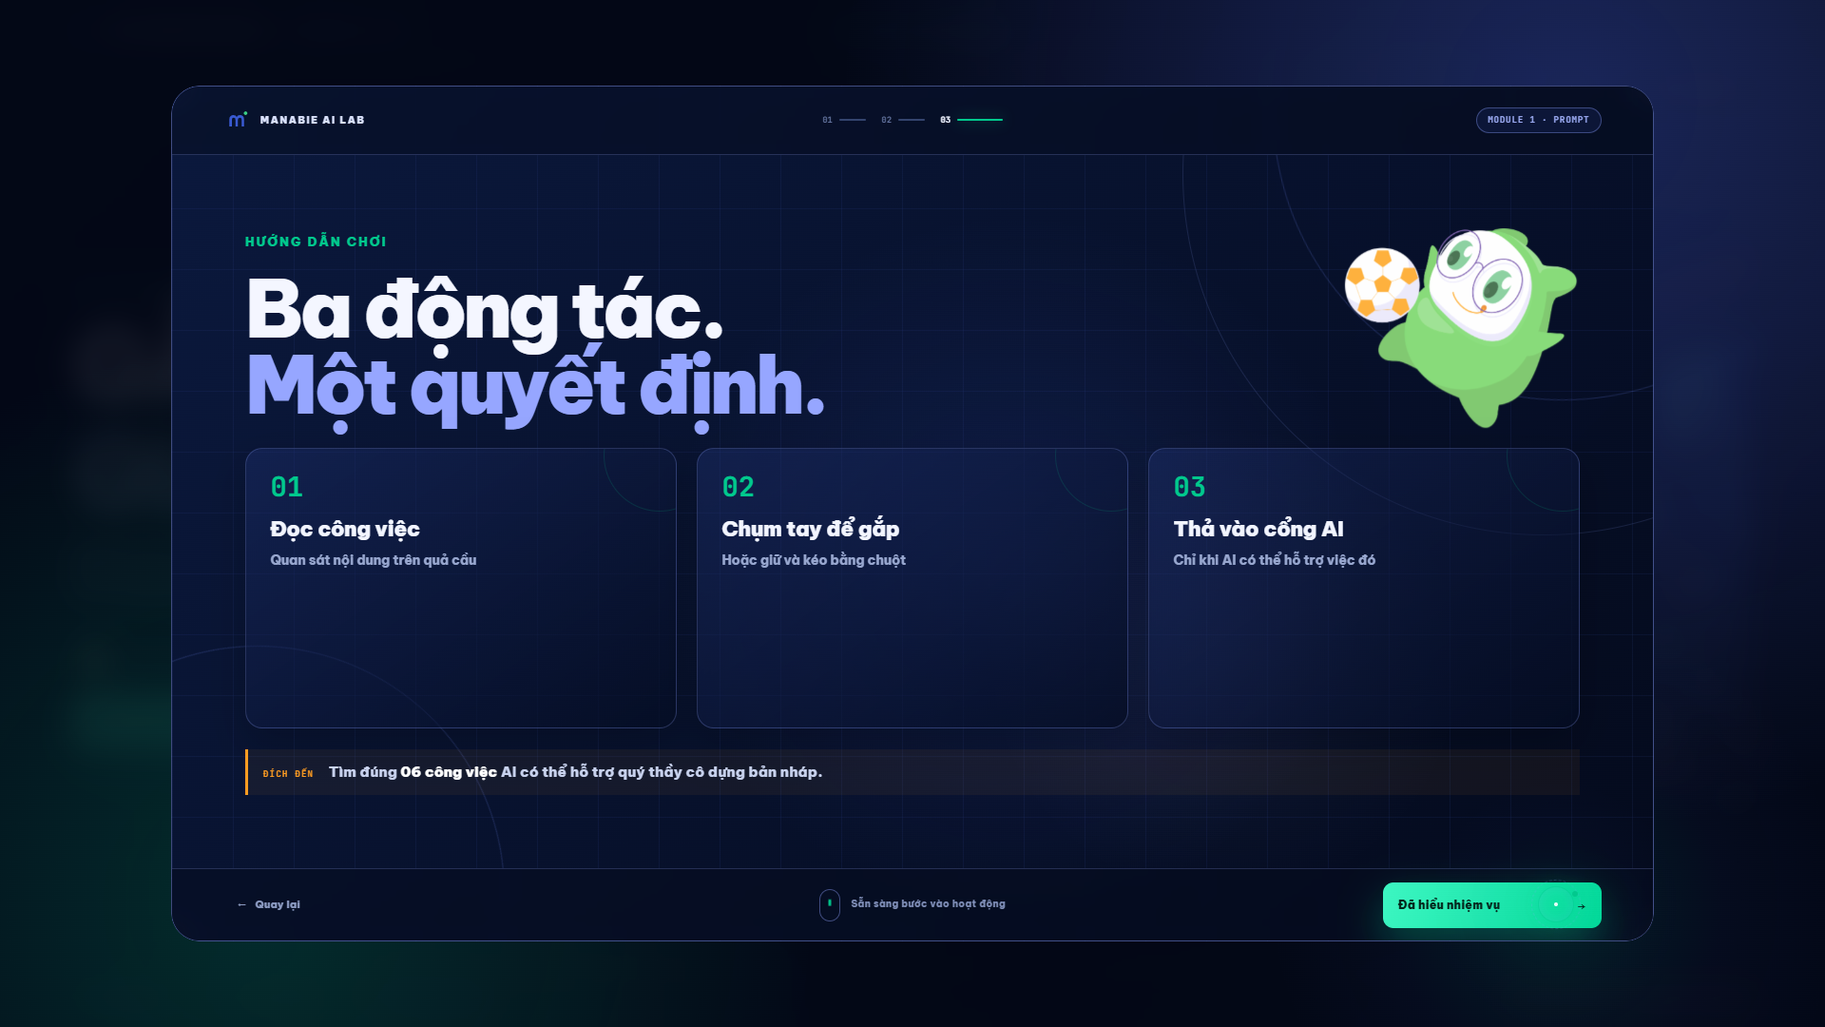
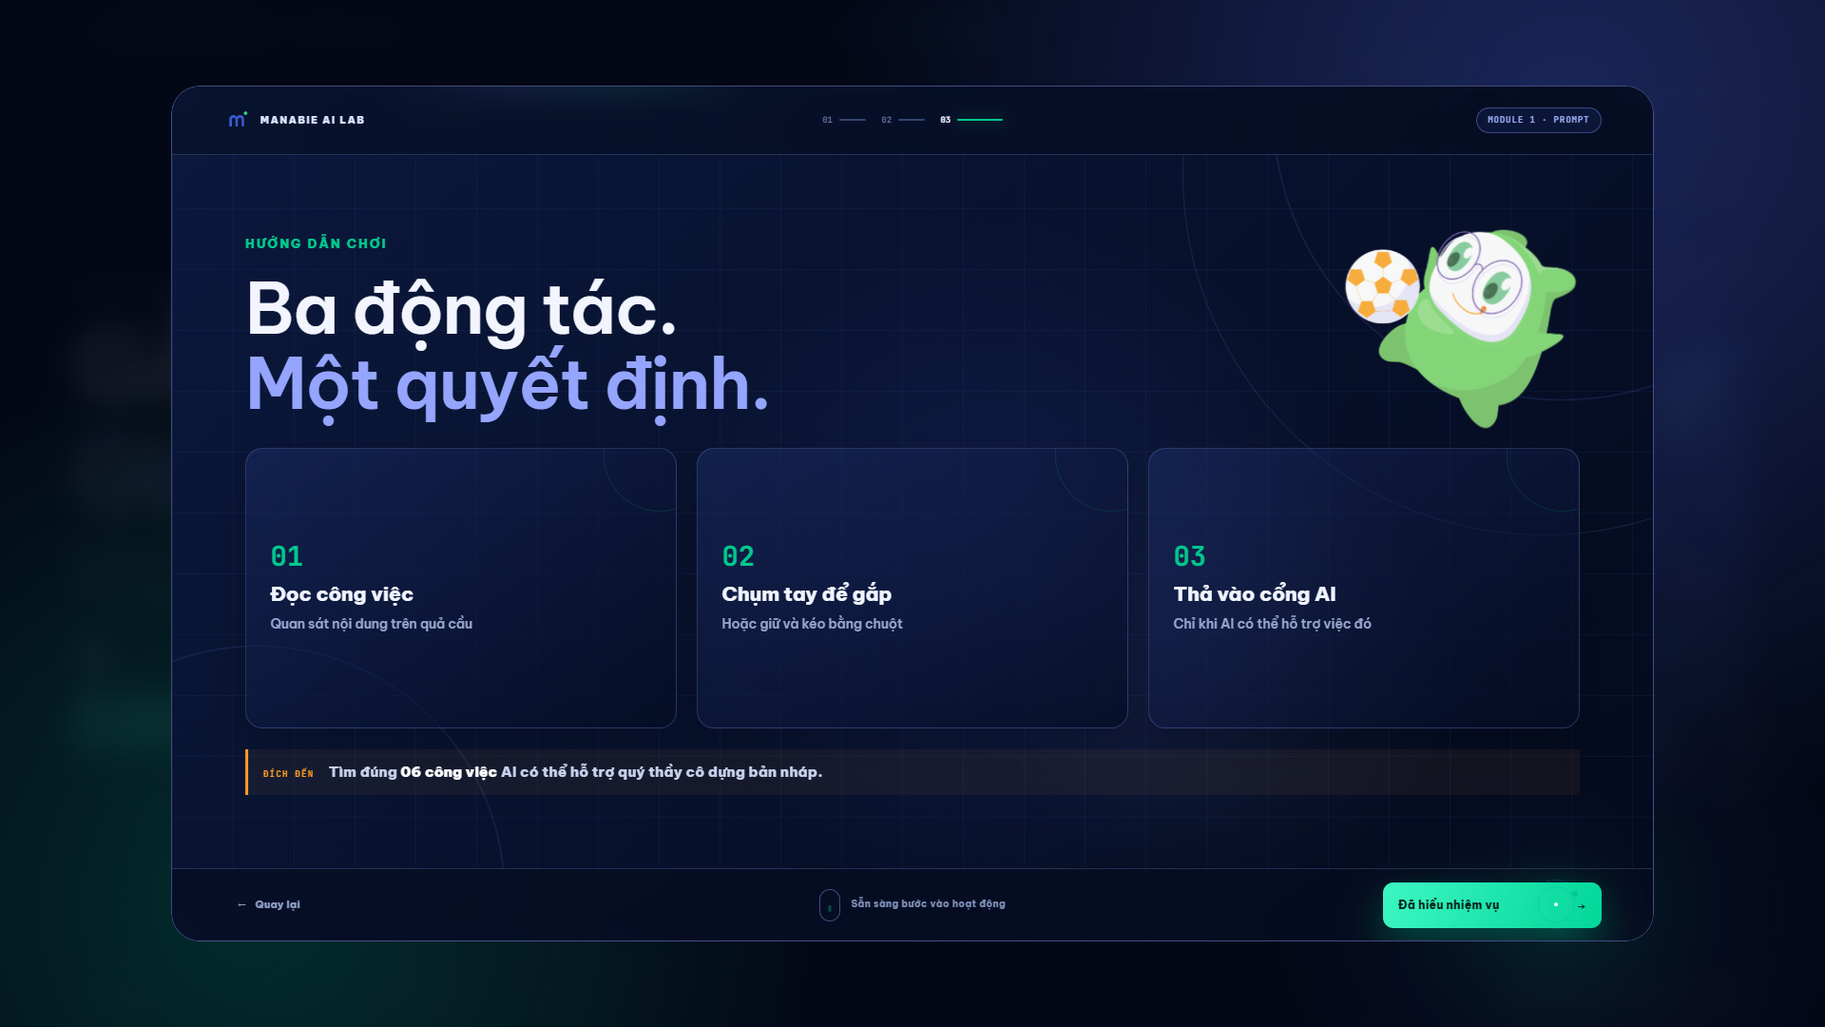
smooth briefing morph and rebalance typography

diff --git a/src/index.css b/src/index.css
@@ -2470,14 +2470,15 @@ button {
 .briefing-progress button[aria-current='step'] { color: #eef2ff; }
 .briefing-progress button[aria-current='step'] i { width: 48px; background: var(--manabie-green); box-shadow: 0 0 14px rgba(1, 201, 141, .5); }
 
-.briefing-page-stage { position: relative; z-index: 3; min-height: 0; overflow: hidden; }
+.briefing-page-stage { position: relative; z-index: 3; min-height: 0; overflow: hidden; transition: filter .48s ease, transform .48s cubic-bezier(.4, 0, .2, 1), opacity .48s ease; }
+.briefing-deck[data-morph-phase='cover'] .briefing-page-stage { filter: blur(3px); opacity: .72; transform: scale(.985); }
 
 .briefing-page {
   position: absolute;
   inset: 0;
   padding: clamp(1.8rem, 4vw, 4.8rem);
   overflow: hidden;
-  animation: briefing-page-reveal .9s cubic-bezier(.16, .86, .28, 1) both;
+  animation: briefing-page-reveal .78s cubic-bezier(.16, .86, .28, 1) both;
 }
 
 .briefing-page::after {
@@ -2497,15 +2498,15 @@ button {
   margin: 0 0 clamp(.8rem, 1.8vh, 1.35rem);
   color: var(--manabie-green);
   font-size: clamp(.65rem, .75vw, .8rem);
-  font-weight: 950;
+  font-weight: 850;
   letter-spacing: .17em;
 }
 
-.briefing-page h2 { margin: 0; color: #f4f6ff; font-weight: 950; letter-spacing: -.055em; text-wrap: balance; }
+.briefing-page h2 { margin: 0; color: #f4f6ff; font-weight: 600; letter-spacing: -.024em; text-wrap: balance; }
 .briefing-page h2 em { color: #96a6ff; font-style: normal; }
 
 /* Page 01 — course welcome */
-.briefing-page-welcome { display: grid; grid-template-columns: minmax(300px, .72fr) minmax(620px, 1.28fr); align-items: center; gap: clamp(2rem, 5vw, 6rem); }
+.briefing-page-welcome { display: grid; grid-template-columns: minmax(280px, .62fr) minmax(660px, 1.38fr); align-items: center; gap: clamp(2rem, 4vw, 4.5rem); }
 .briefing-page-welcome::after { right: -14%; bottom: -54%; }
 .briefing-page-visual { position: relative; align-self: stretch; display: grid; place-items: center; }
 .briefing-page-visual > img {
@@ -2530,10 +2531,10 @@ button {
 .briefing-portal b { position: absolute; right: 5%; top: 18%; display: grid; place-items: center; width: 42px; height: 42px; border: 1px solid rgba(1, 201, 141, .45); border-radius: 50%; color: var(--manabie-green); background: #07172d; font: 900 .7rem/1 var(--data); }
 
 .briefing-page-copy { position: relative; z-index: 3; }
-.briefing-page-copy h2 { font-size: clamp(3.4rem, 5.1vw, 6.15rem); line-height: .99; }
+.briefing-page-copy h2 { max-width: 1050px; font-size: clamp(3rem, 4.1vw, 4.65rem); line-height: 1.1; }
 .briefing-module-card { width: fit-content; max-width: 760px; display: grid; grid-template-columns: auto 1fr; align-items: center; gap: 1rem; margin-top: clamp(1.5rem, 3vh, 2.6rem); padding: .9rem 1.1rem; border: 1px solid rgba(145, 162, 255, .28); border-radius: 14px; background: rgba(26, 43, 101, .32); box-shadow: 0 18px 46px rgba(0,0,0,.18); }
 .briefing-module-card > span { padding: .52rem .72rem; border-radius: 7px; color: #04231a; background: var(--manabie-green); font: 950 .62rem/1 var(--data); }
-.briefing-module-card strong { color: #c8d3f1; font-size: clamp(.8rem, 1.05vw, 1.08rem); line-height: 1.45; }
+.briefing-module-card strong { color: #c8d3f1; font-size: clamp(.8rem, 1vw, 1.04rem); font-weight: 600; line-height: 1.5; text-wrap: pretty; }
 
 /* Page 02 — one large workshop question */
 .briefing-page-question { display: grid; grid-template-columns: minmax(260px, .5fr) minmax(680px, 1.5fr); align-items: center; gap: clamp(2rem, 5vw, 6rem); }
@@ -2542,20 +2543,20 @@ button {
 .briefing-question-mark > span { color: transparent; font-size: clamp(15rem, 24vw, 30rem); font-weight: 950; line-height: .8; -webkit-text-stroke: 1px rgba(145, 162, 255, .26); filter: drop-shadow(0 0 55px rgba(60, 90, 210, .24)); animation: briefing-question-mark 5s ease-in-out infinite; }
 .briefing-question-mark img { position: absolute; z-index: 3; bottom: 2%; width: min(72%, 280px); max-height: 330px; object-fit: contain; filter: drop-shadow(0 28px 34px rgba(0,0,0,.4)); animation: briefing-deck-mascot-pop .9s cubic-bezier(.16,.86,.28,1) .18s both; }
 .briefing-question-copy { position: relative; z-index: 3; }
-.briefing-question-copy h2 { max-width: 1000px; font-size: clamp(2.6rem, 3.7vw, 4.65rem); line-height: 1.08; }
+.briefing-question-copy h2 { max-width: 1050px; font-size: clamp(2.45rem, 3.35vw, 4.15rem); line-height: 1.13; }
 .briefing-question-copy h2 em { color: #f4f6ff; text-decoration: underline; text-decoration-color: var(--manabie-green); text-decoration-thickness: .08em; text-underline-offset: .13em; }
 .briefing-question-divider { display: flex; align-items: center; gap: .85rem; width: min(100%, 820px); margin: clamp(1.2rem, 2.5vh, 2rem) 0; }
 .briefing-question-divider::before, .briefing-question-divider::after { content: ''; height: 1px; flex: 1; background: linear-gradient(90deg, transparent, rgba(145,162,255,.42)); }
 .briefing-question-divider::after { background: linear-gradient(90deg, rgba(145,162,255,.42), transparent); }
 .briefing-question-divider span { color: var(--mascot-orange); font: 900 .64rem/1 var(--data); }
-.briefing-question-copy > p:last-child { max-width: 980px; margin: 0; color: #bfc9e8; font-size: clamp(1.4rem, 2vw, 2.35rem); font-weight: 750; line-height: 1.35; }
-.briefing-question-copy > p strong { color: #fff; font-weight: 950; }
+.briefing-question-copy > p:last-child { max-width: 1000px; margin: 0; color: #bfc9e8; font-size: clamp(1.35rem, 1.8vw, 2.05rem); font-weight: 600; line-height: 1.42; text-wrap: pretty; }
+.briefing-question-copy > p strong { color: #fff; font-weight: 750; }
 
 /* Page 03 — large, scan-friendly play instructions */
 .briefing-page-howto { display: grid; grid-template-rows: auto 1fr auto; gap: clamp(1rem, 2vh, 1.6rem); }
 .briefing-page-howto::after { right: -17%; top: -48%; }
 .briefing-howto-heading { position: relative; z-index: 3; display: flex; align-items: center; justify-content: space-between; min-height: 170px; }
-.briefing-howto-heading h2 { font-size: clamp(3rem, 4.4vw, 5.35rem); line-height: .95; }
+.briefing-howto-heading h2 { max-width: 940px; font-size: clamp(2.85rem, 3.9vw, 4.65rem); line-height: 1.06; }
 .briefing-howto-heading > img { align-self: end; width: clamp(150px, 15vw, 250px); max-height: 210px; object-fit: contain; filter: drop-shadow(0 22px 30px rgba(0,0,0,.36)); animation: briefing-deck-mascot-pop .9s cubic-bezier(.16,.86,.28,1) .15s both, briefing-deck-mascot-float 5.2s ease-in-out 1.1s infinite; }
 .briefing-steps-large { position: relative; z-index: 3; display: grid; grid-template-columns: repeat(3, 1fr); gap: clamp(.75rem, 1.4vw, 1.3rem); margin: 0; padding: 0; list-style: none; }
 .briefing-steps-large li { position: relative; min-width: 0; display: grid; grid-template-rows: auto auto auto; align-content: center; padding: clamp(1rem, 1.8vw, 1.6rem); overflow: hidden; border: 1px solid rgba(145, 162, 255, .24); border-radius: 18px; background: linear-gradient(145deg, rgba(35, 55, 126, .34), rgba(4, 12, 34, .72)); box-shadow: 0 18px 44px rgba(0,0,0,.2); transition: transform .3s cubic-bezier(.22,1,.36,1), border-color .3s ease, box-shadow .3s ease; }
@@ -2563,8 +2564,8 @@ button {
 .briefing-steps-large li:hover { border-color: rgba(1, 201, 141, .62); box-shadow: 0 24px 54px rgba(0,0,0,.28), 0 0 30px rgba(1,201,141,.08); transform: translateY(-8px); }
 .briefing-steps-large li:hover::after { border-color: rgba(1, 201, 141, .48); transform: scale(1.2); }
 .briefing-steps-large li b { color: var(--manabie-green); font: 950 clamp(1.2rem, 1.65vw, 1.8rem)/1 var(--data); }
-.briefing-steps-large li span { margin-top: .8rem; color: #f2f5ff; font-size: clamp(1rem, 1.25vw, 1.35rem); font-weight: 950; }
-.briefing-steps-large li small { margin-top: .5rem; color: #98a7cf; font-size: clamp(.7rem, .82vw, .86rem); font-weight: 650; line-height: 1.45; }
+.briefing-steps-large li span { margin-top: .8rem; color: #f2f5ff; font-size: clamp(1rem, 1.2vw, 1.3rem); font-weight: 800; line-height: 1.25; text-wrap: balance; }
+.briefing-steps-large li small { margin-top: .5rem; color: #98a7cf; font-size: clamp(.7rem, .82vw, .86rem); font-weight: 550; line-height: 1.5; text-wrap: pretty; }
 .briefing-objective { position: relative; z-index: 3; margin: 0; padding: .8rem 1rem; border-left: 3px solid var(--mascot-orange); color: #c9d3ef; background: rgba(255, 157, 34, .055); font-size: clamp(.75rem, .92vw, .96rem); font-weight: 700; }
 .briefing-objective > span { margin-right: .75rem; color: var(--mascot-orange); font: 950 .58rem/1 var(--data); letter-spacing: .12em; }
 .briefing-objective b { color: #fff; }
@@ -2599,7 +2600,7 @@ button {
   opacity: 1;
   animation: briefing-accept-arrive .55s cubic-bezier(.16,.86,.28,1) both;
 }
-.briefing-deck-footer .briefing-accept span { font-size: .78rem; font-weight: 950; }
+.briefing-deck-footer .briefing-accept span { font-size: .78rem; font-weight: 800; }
 .briefing-deck-footer .briefing-accept i { font: 950 .9rem/1 var(--data); }
 .briefing-deck-footer .briefing-accept:hover { filter: brightness(1.08); transform: translateY(-2px); box-shadow: 0 18px 42px rgba(1, 201, 141, .32); }
 
@@ -2637,17 +2638,17 @@ button {
 .briefing-morph > span i:nth-child(2) { right: -28px; bottom: 2px; background: #91a2ff; }
 .briefing-morph > span b { font: 950 .72rem/1 var(--data); }
 .briefing-morph > strong { position: relative; z-index: 3; margin-top: 130px; color: #eef2ff; font: 900 .62rem/1 var(--data); letter-spacing: .18em; }
-.briefing-deck.is-morphing .briefing-morph { visibility: visible; animation: briefing-morph-layer .86s cubic-bezier(.68,0,.32,1) both; }
-.briefing-deck.is-morphing .briefing-morph::before { animation: briefing-morph-wipe .86s cubic-bezier(.68,0,.32,1) both; }
-.briefing-deck.is-morphing .briefing-morph > span { animation: briefing-morph-portal .86s cubic-bezier(.68,0,.32,1) both; }
-.briefing-deck.is-morphing .briefing-morph > span::before { animation: briefing-orbit .86s linear both; }
-.briefing-deck.is-morphing .briefing-morph > strong { animation: briefing-morph-label .86s ease both; }
+.briefing-deck.is-morphing .briefing-morph { visibility: visible; animation: briefing-morph-layer 1.16s cubic-bezier(.68,0,.32,1) both; }
+.briefing-deck.is-morphing .briefing-morph::before { animation: briefing-morph-wipe 1.16s cubic-bezier(.68,0,.32,1) both; }
+.briefing-deck.is-morphing .briefing-morph > span { animation: briefing-morph-portal 1.16s cubic-bezier(.68,0,.32,1) both; }
+.briefing-deck.is-morphing .briefing-morph > span::before { animation: briefing-orbit 1.16s linear both; }
+.briefing-deck.is-morphing .briefing-morph > strong { animation: briefing-morph-label 1.16s ease both; }
 
 @keyframes briefing-deck-arrive { from { opacity: 0; clip-path: inset(48% 2% 48% 2% round 30px); transform: translateY(24px) scale(.975); } to { opacity: 1; clip-path: inset(0 round 30px); transform: none; } }
 @keyframes briefing-deck-edge { 0%, 12% { transform: translateX(0); opacity: 0; } 28%, 72% { opacity: 1; } 88%, 100% { transform: translateX(660%); opacity: 0; } }
-@keyframes briefing-page-reveal { from { opacity: 0; filter: blur(8px); transform: translateX(72px) scale(.975); } to { opacity: 1; filter: blur(0); transform: none; } }
+@keyframes briefing-page-reveal { from { opacity: 0; filter: blur(12px); clip-path: circle(12% at 50% 50%); transform: scale(.955); } to { opacity: 1; filter: blur(0); clip-path: circle(78% at 50% 50%); transform: none; } }
 .briefing-deck[data-direction='prev'] .briefing-page { animation-name: briefing-page-reveal-back; }
-@keyframes briefing-page-reveal-back { from { opacity: 0; filter: blur(8px); transform: translateX(-72px) scale(.975); } to { opacity: 1; filter: blur(0); transform: none; } }
+@keyframes briefing-page-reveal-back { from { opacity: 0; filter: blur(12px); clip-path: circle(12% at 50% 50%); transform: scale(1.035); } to { opacity: 1; filter: blur(0); clip-path: circle(78% at 50% 50%); transform: none; } }
 @keyframes briefing-deck-mascot-pop { from { opacity: 0; filter: blur(8px); transform: translateY(35px) scale(.75) rotate(-5deg); } to { opacity: 1; filter: blur(0); transform: none; } }
 @keyframes briefing-deck-mascot-float { 50% { transform: translateY(-9px) rotate(.7deg); } }
 @keyframes briefing-portal-breathe { 50% { transform: scale(1.035); border-color: rgba(1,201,141,.42); box-shadow: inset 0 0 110px rgba(60,90,210,.2), 0 0 85px rgba(1,201,141,.12); } }
@@ -2690,7 +2691,7 @@ button {
   .briefing-page-visual > p { bottom: 0; padding: .45rem .65rem; font-size: .58rem; }
   .briefing-portal { width: min(61%, 220px); }
   .briefing-portal b { width: 32px; height: 32px; font-size: .55rem; }
-  .briefing-page-copy h2 { font-size: clamp(2rem, 9.5vw, 2.85rem); line-height: 1.02; }
+  .briefing-page-copy h2 { font-size: clamp(1.9rem, 8.5vw, 2.45rem); line-height: 1.1; }
   .briefing-module-card { width: 100%; gap: .6rem; margin-top: 1rem; padding: .7rem; }
   .briefing-module-card > span { padding: .42rem .5rem; font-size: .52rem; }
   .briefing-module-card strong { font-size: .68rem; }
@@ -2699,9 +2700,9 @@ button {
   .briefing-question-mark { position: absolute; z-index: 0; right: -1rem; top: -1rem; width: 150px; height: 190px; opacity: .38; }
   .briefing-question-mark > span { font-size: 11rem; }
   .briefing-question-mark img { right: 0; bottom: -1rem; width: 100px; }
-  .briefing-question-copy h2 { font-size: clamp(1.85rem, 8.3vw, 2.45rem); line-height: 1.12; }
+  .briefing-question-copy h2 { font-size: clamp(1.7rem, 7.4vw, 2.15rem); line-height: 1.18; }
   .briefing-question-divider { margin: 1rem 0; }
-  .briefing-question-copy > p:last-child { font-size: clamp(1.15rem, 5.5vw, 1.55rem); }
+  .briefing-question-copy > p:last-child { font-size: clamp(1.05rem, 4.8vw, 1.35rem); line-height: 1.48; }
 
   .briefing-page-howto { gap: .65rem; }
   .briefing-howto-heading { min-height: 105px; }

diff --git a/src/App.tsx b/src/App.tsx
@@ -379,9 +379,10 @@ function Intro({
   const [motionCycle, setMotionCycle] = useState(0);
   const [briefingStep, setBriefingStep] = useState(0);
   const [briefingDirection, setBriefingDirection] = useState<'next' | 'prev'>('next');
-  const [briefingMorph, setBriefingMorph] = useState(false);
+  const [briefingMorphPhase, setBriefingMorphPhase] = useState<'idle' | 'cover' | 'reveal'>('idle');
   const briefingDeckRef = useRef<HTMLElement | null>(null);
-  const briefingMorphTimerRef = useRef<number | null>(null);
+  const briefingMorphSwapTimerRef = useRef<number | null>(null);
+  const briefingMorphEndTimerRef = useRef<number | null>(null);
   const briefingMorphLockRef = useRef(false);
 
   useEffect(() => {
@@ -391,7 +392,8 @@ function Intro({
   }, [briefingOpen]);
 
   useEffect(() => () => {
-    if (briefingMorphTimerRef.current !== null) window.clearTimeout(briefingMorphTimerRef.current);
+    if (briefingMorphSwapTimerRef.current !== null) window.clearTimeout(briefingMorphSwapTimerRef.current);
+    if (briefingMorphEndTimerRef.current !== null) window.clearTimeout(briefingMorphEndTimerRef.current);
   }, []);
 
   const goToBriefingStep = (nextStep: number) => {
@@ -399,15 +401,19 @@ function Intro({
     if (target === briefingStep || briefingMorphLockRef.current) return;
     briefingMorphLockRef.current = true;
     setBriefingDirection(target > briefingStep ? 'next' : 'prev');
-    setBriefingStep(target);
-    setBriefingMorph(true);
+    setBriefingMorphPhase('cover');
     audio.init();
     audio.playPower();
-    briefingMorphTimerRef.current = window.setTimeout(() => {
-      setBriefingMorph(false);
+    briefingMorphSwapTimerRef.current = window.setTimeout(() => {
+      setBriefingStep(target);
+      setBriefingMorphPhase('reveal');
+      briefingMorphSwapTimerRef.current = null;
+    }, 500);
+    briefingMorphEndTimerRef.current = window.setTimeout(() => {
+      setBriefingMorphPhase('idle');
       briefingMorphLockRef.current = false;
-      briefingMorphTimerRef.current = null;
-    }, 860);
+      briefingMorphEndTimerRef.current = null;
+    }, 1160);
   };
 
   const advanceBriefing = () => goToBriefingStep(briefingStep + 1);
@@ -534,9 +540,10 @@ function Intro({
       {briefingOpen && (
         <section
           ref={briefingDeckRef}
-          className={`briefing-overlay briefing-deck ${briefingMorph ? 'is-morphing' : ''}`}
+          className={`briefing-overlay briefing-deck ${briefingMorphPhase !== 'idle' ? 'is-morphing' : ''}`}
           data-step={briefingStep + 1}
           data-direction={briefingDirection}
+          data-morph-phase={briefingMorphPhase}
           role="dialog"
           aria-modal="true"
           aria-labelledby="briefing-page-title"
@@ -598,10 +605,10 @@ function Intro({
                   </div>
                   <div className="briefing-page-copy">
                     <p className="briefing-kicker">CHÀO MỪNG QUÝ THẦY CÔ THAM GIA BUỔI TẬP HUẤN</p>
-                    <h2 id="briefing-page-title">Ứng dụng trí tuệ nhân tạo<br /><em>vào công việc chuyên môn</em></h2>
+                    <h2 id="briefing-page-title">Ứng dụng trí tuệ nhân tạo <em>vào công việc chuyên môn</em></h2>
                     <div className="briefing-module-card">
                       <span>MODULE 1</span>
-                      <strong>Prompt và quy trình tạo tài liệu<br />phục vụ hoạt động dạy học</strong>
+                      <strong>Prompt và quy trình tạo tài liệu phục vụ hoạt động dạy học</strong>
                     </div>
                   </div>
                 </article>
@@ -631,7 +638,7 @@ function Intro({
                   <div className="briefing-howto-heading">
                     <div>
                       <p className="briefing-kicker">HƯỚNG DẪN CHƠI</p>
-                      <h2 id="briefing-page-title">Ba động tác.<br /><em>Một quyết định.</em></h2>
+                      <h2 id="briefing-page-title">Ba động tác. <em>Một quyết định.</em></h2>
                     </div>
                     <img src={BRAND_MASCOTS.action} alt="Mascot Manabie hướng dẫn bắt đầu nhiệm vụ" />
                   </div>

diff --git a/scripts/qa_visual.py b/scripts/qa_visual.py
@@ -33,6 +33,7 @@ assert "workshop-morph-gate" in app_source, "Opening needs a visible AI portal m
 assert "briefing-overlay" in app_source, "Opening must include the Module 1 briefing dialog"
 assert all(name in app_source for name in ("briefing-page-welcome", "briefing-page-question", "briefing-page-howto")), "Briefing must use three distinct pages"
 assert "onWheel" in app_source and "briefing-morph" in app_source, "Briefing needs wheel navigation and morph transitions"
+assert "data-morph-phase" in app_source and "1.16s" in css_source, "Briefing morph must use a timed cover/swap/reveal sequence"
 assert "Đã hiểu nhiệm vụ" in app_source, "Briefing needs one explicit acknowledgement action"
 assert "Một công việc chuyên môn có" in app_source, "Briefing must state the workshop question"
 assert "THCS ĐỒNG KHỞI" not in app_source and "TẬP HUẤN 10/8" not in app_source, "School-specific identity must be removed"
@@ -72,14 +73,20 @@ with sync_playwright() as p:
     page_one_title = page.locator(".briefing-page-welcome h2").inner_text()
     cursor_aura_visible = float(page.locator(".briefing-cursor-aura").evaluate("el => getComputedStyle(el).opacity")) > 0.8
     page.get_by_role("button", name="Tiếp tục").click()
-    page.wait_for_timeout(260)
+    page.wait_for_timeout(240)
+    old_page_held_during_cover = page.locator(".briefing-page-welcome").count() == 1
+    new_page_hidden_during_cover = page.locator(".briefing-page-question").count() == 0
+    morph_cover_phase = briefing.get_attribute("data-morph-phase")
     briefing_morph_animation = page.locator(".briefing-morph").evaluate("el => getComputedStyle(el).animationName")
+    page.wait_for_function("document.querySelector('.briefing-deck')?.dataset.morphPhase === 'reveal'", timeout=1200)
+    morph_reveal_phase_observed = True
     page.screenshot(path=str(out / "briefing-morph-1-2.png"), full_page=False)
-    page.wait_for_timeout(700)
+    page.wait_for_function("document.querySelector('.briefing-deck')?.dataset.morphPhase === 'idle'", timeout=1400)
+    new_page_revealed_after_swap = page.locator(".briefing-page-question").count() == 1
     briefing_question = page.locator(".briefing-question-copy").inner_text()
     page.screenshot(path=str(out / "briefing-question-desktop.png"), full_page=False)
     page.mouse.wheel(0, 620)
-    page.wait_for_timeout(920)
+    page.wait_for_timeout(1220)
     page_three_steps = page.locator(".briefing-steps-large li").count()
     page.screenshot(path=str(out / "briefing-howto-desktop.png"), full_page=False)
     page.get_by_role("button", name="Đã hiểu nhiệm vụ").click()
@@ -116,10 +123,10 @@ with sync_playwright() as p:
     mobile.screenshot(path=str(out / "briefing-mobile.png"), full_page=True)
     mobile_briefing_overflow = mobile.evaluate("document.documentElement.scrollWidth <= document.documentElement.clientWidth")
     mobile.get_by_role("button", name="Tiếp tục").click()
-    mobile.wait_for_timeout(900)
+    mobile.wait_for_timeout(1220)
     mobile.screenshot(path=str(out / "briefing-question-mobile.png"), full_page=True)
     mobile.get_by_role("button", name="Tiếp tục").click()
-    mobile.wait_for_timeout(900)
+    mobile.wait_for_timeout(1220)
     mobile.screenshot(path=str(out / "briefing-howto-mobile.png"), full_page=True)
     mobile.get_by_role("button", name="Đã hiểu nhiệm vụ").click()
     mobile.wait_for_timeout(3500)
@@ -192,6 +199,9 @@ with sync_playwright() as p:
     assert "người dạy phải giữ lại cho mình" in briefing_question, briefing_question
     assert page_three_steps == 3, f"Expected three large play steps, got {page_three_steps}"
     assert briefing_morph_animation == "briefing-morph-layer", briefing_morph_animation
+    assert old_page_held_during_cover and new_page_hidden_during_cover, "Briefing content swapped before the morph covered the old page"
+    assert morph_cover_phase == "cover", morph_cover_phase
+    assert new_page_revealed_after_swap and morph_reveal_phase_observed, "New briefing page did not reveal from the covered state"
     assert cursor_aura_visible, "Mouse-reactive briefing aura did not appear"
     assert mobile_briefing_overflow, "Mobile briefing has horizontal overflow"
     assert debrief_has_vertical_scroll, "Debrief must contain a deliberate multi-screen scroll story"
